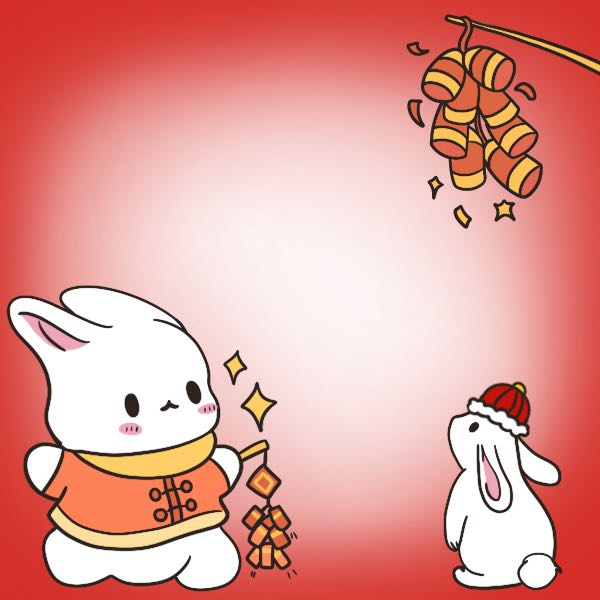
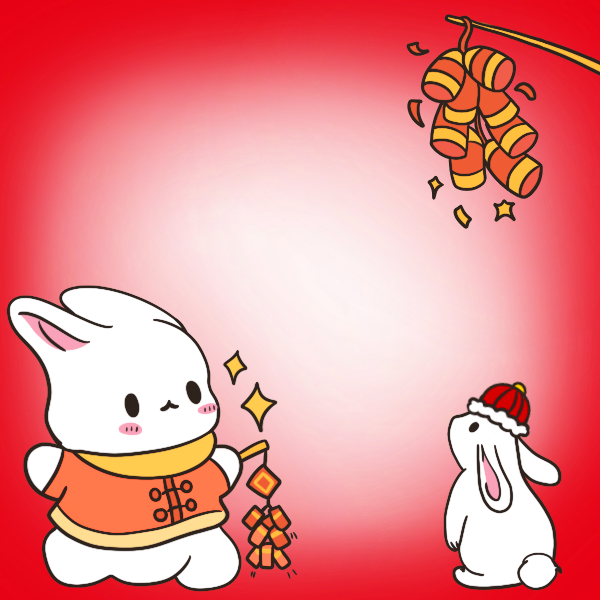
feat(img-li-2): 更新效果图
更新效果图

diff --git a/src/App.vue b/src/App.vue
@@ -25,7 +25,7 @@
             目前效果图属于个人购买，数量有限；希望有志同道合的设计师为爱发电，提供一些效果图。我会在效果图下展示设计师的名称及个人网站等链接，
             并在春节会收到小黎的春节红包🧧。<br />
             若有喜欢的效果图或想要提供一些效果图，小黎不胜感激🙏。这个项目有您的参与变的更有意义🤝！<br />
-            联系方式~ <b>QQ: 22708206</b>，<i><a href="https://github.com/xiaoli1999/custom-rabbitImage/issues">issues链接~</a></i>。
+            联系方式~ <b>QQ: 22708206</b>，<i><a href="https://github.com/xiaoli1999/custom-rabbitImage/issues">github issues链接~</a></i>。
         </p>
     </div>
     <el-row class="main" :gutter="isPc ? 20 : 0">
@@ -98,7 +98,7 @@
 
 <script lang="ts" setup>
 import { ref, onMounted } from 'vue'
-import {judgePC, getCreatedUrl, getImgInfo, downloadImg} from '@/tools/common'
+import { judgePC, getCreatedUrl, getImgInfo, downloadImg } from '@/tools/common'
 import { effectList } from './tools/effectList'
 import progress from './tools/progress'
 import RabbitLi from './components/RabbitLi/index.vue'
@@ -192,9 +192,9 @@ onMounted(() => progress.close())
 @activeColor: #fff;
 
 .title-size {
-    font-family: 楷体, serif;
+    font-family: "楷体", serif;
     letter-spacing: 1px;
-    -webkit-background-clip: text;
+    background-clip: text;
     -webkit-text-fill-color: transparent;
     -webkit-text-stroke: 1px #fff;
 }
@@ -207,11 +207,11 @@ onMounted(() => progress.close())
     position: fixed;
     top: 0;
     left: 0;
-    background: url("./assets/img/bg.png") center no-repeat;
-    background-size: cover;
     z-index: -1;
     width: 100%;
     height: 100vh;
+    background: url("./assets/img/bg.png") center no-repeat;
+    background-size: cover;
 
     .transition;
 }
@@ -227,8 +227,6 @@ header {
 .desc {
     padding: 0 12px;
     margin: 0 auto 20px;
-
-    //color: #f4f4f4;
 
     .desc-title {
         padding-bottom: 12px;
@@ -249,16 +247,16 @@ header {
         }
 
         > span {
-            width: 240px;
             display: flex;
             justify-content: space-between;
             margin: 12px auto;
+            width: 240px;
 
             > img {
-                width: 100px;
-                object-fit: contain;
-                border-radius: 4px;
                 overflow: hidden;
+                width: 100px;
+                border-radius: 4px;
+                object-fit: contain;
             }
         }
     }
@@ -272,7 +270,7 @@ header {
         overflow: hidden;
         margin: 0 auto;
         border-radius: 8px;
-        box-shadow: inset 0 0 16px 1px #ffffffcc;
+        box-shadow: inset 0 0 16px 1px #fffc;
 
         .transition;
 
@@ -283,7 +281,6 @@ header {
 
     .form {
         padding: 12px 0;
-        //border-radius: 8px;
 
         :deep(.el-form-item__label) {
             color: #d5d5d5;
@@ -304,7 +301,7 @@ header {
             &.active {
                 color: @activeColor;
                 border-color: @activeColor;
-                box-shadow: inset 0 0 6px 1px #ffffffcc;
+                box-shadow: inset 0 0 6px 1px #fffc;
             }
         }
 
@@ -355,11 +352,11 @@ header {
             align-items: center;
             overflow-x: hidden;
             overflow-y: auto;
+            padding: 4px;
             width: 100%;
             height: auto;
             max-height: 240px;
             flex-wrap: wrap;
-            padding: 4px;
 
             .effect-item {
                 padding: 8px 8px 0;
@@ -370,12 +367,12 @@ header {
                 .transition;
 
                 > img {
+                    overflow: hidden;
                     width: 80px;
                     height: 80px;
-                    cursor: pointer;
-                    border-radius: 2px;
                     background: #f4f4f480;
-                    overflow: hidden;
+                    border-radius: 2px;
+                    cursor: pointer;
                 }
 
                 > div {
@@ -391,7 +388,7 @@ header {
                 &.active {
                     border: 1px solid @activeColor;
                     //box-shadow: 0 0 4px 1px #409eff80;
-                    box-shadow: inset 0 0 6px 1px #ffffffcc;
+                    box-shadow: inset 0 0 6px 1px #fffc;
 
                     > div {
                         color: @activeColor;
@@ -403,7 +400,6 @@ header {
 }
 
 .preview {
-
     .preview-list {
         display: flex;
         justify-content: space-around;
@@ -412,49 +408,48 @@ header {
         .preview-list-item {
             text-align: center;
 
-            :deep(.el-image)  {
-                width: 64px;
-                height: 64px;
+            :deep(.el-image) {
                 display: block;
                 margin: 0 auto 8px;
+                width: 64px;
+                height: 64px;
                 border-radius: 4px;
             }
         }
 
         .preview-list-item:last-child {
             :deep(.el-image) {
-               border-radius: 50%;
+                border-radius: 50%;
             }
         }
     }
 }
 
 .stats {
-    margin: 20px auto;
     display: flex;
-    align-items: center;
     justify-content: center;
+    align-items: center;
+    margin: 20px auto;
 
     > p,
     > a {
-        margin: 0 4px;
         padding: 4px 8px;
+        margin: 0 4px;
         font-size: 14px;
         color: #363439;
-        font-weight: 600;
         background: #ffffff9a;
         border-radius: 2px;
         box-shadow: inset 0 0 8px 1px #f4f4f480;
+        font-weight: 600;
 
         > span {
             padding-left: 4px;
         }
 
-
         > img {
+            margin-right: 2px;
             width: 18px;
             height: 18px;
-            margin-right: 2px;
         }
     }
 
@@ -464,7 +459,7 @@ header {
         cursor: pointer;
 
         &:hover {
-            box-shadow: inset 0 0 8px 1px #ffffff, 1px 1px 6px .5px #00000060;
+            box-shadow: inset 0 0 8px 1px #fff, 1px 1px 6px 0.5px #00000060;
         }
     }
 }
@@ -507,8 +502,8 @@ footer {
             }
 
             > span {
-                width: 200px;
                 margin: 8px auto;
+                width: 200px;
 
                 > img {
                     width: 90px;
@@ -520,13 +515,10 @@ footer {
     .main {
         margin-bottom: 8px;
 
-        .custom {}
-
         .form {
             padding: 8px 0;
 
             .effect {
-
                 .effect-item {
                     padding: 4px 6px 0;
                     margin: 0 6px 6px 0;
@@ -550,8 +542,8 @@ footer {
 
         > p,
         > a {
-            margin: 0 4px 0 0;
             padding: 4px 8px;
+            margin: 0 4px 0 0;
             font-size: 12px;
             border-radius: 2px;
             box-shadow: inset 0 0 8px 1px #f4f4f480;
